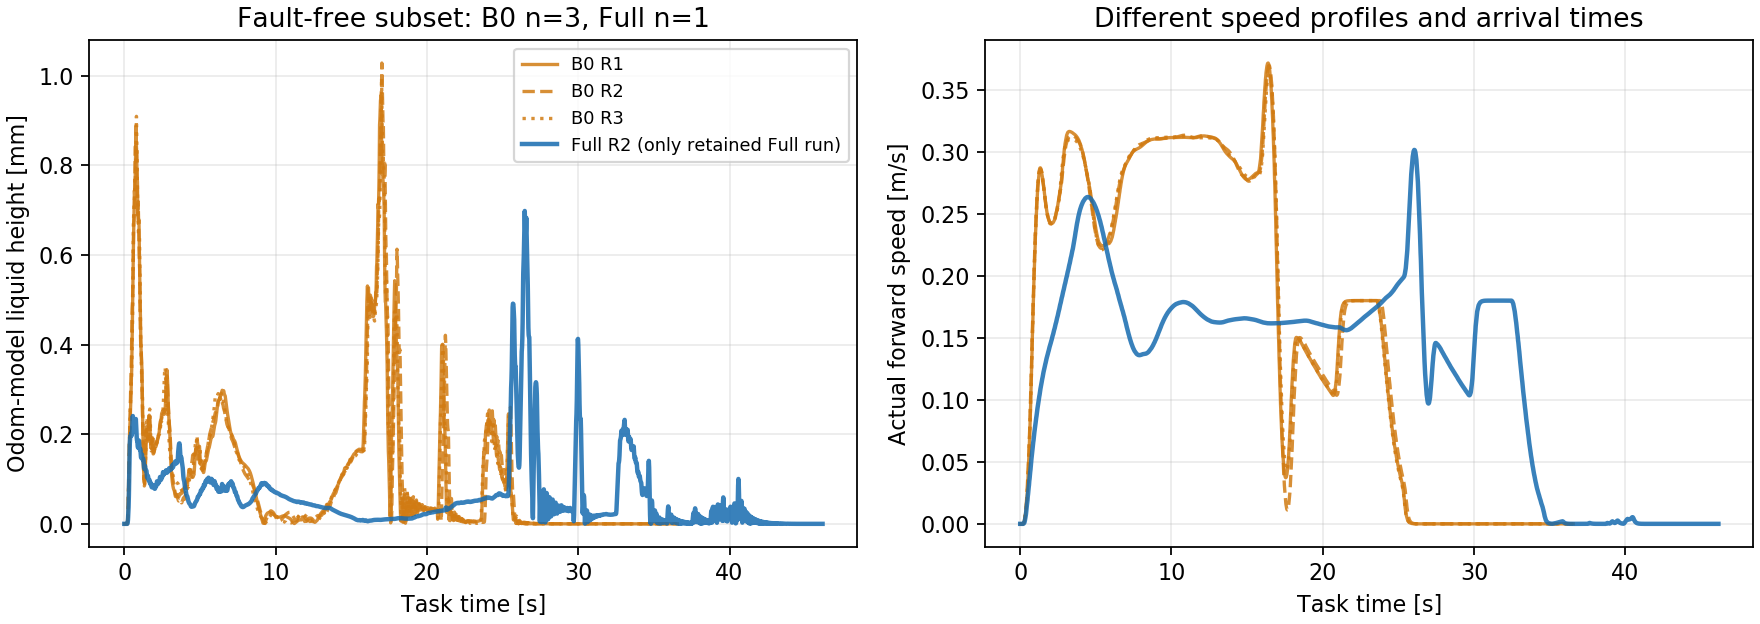
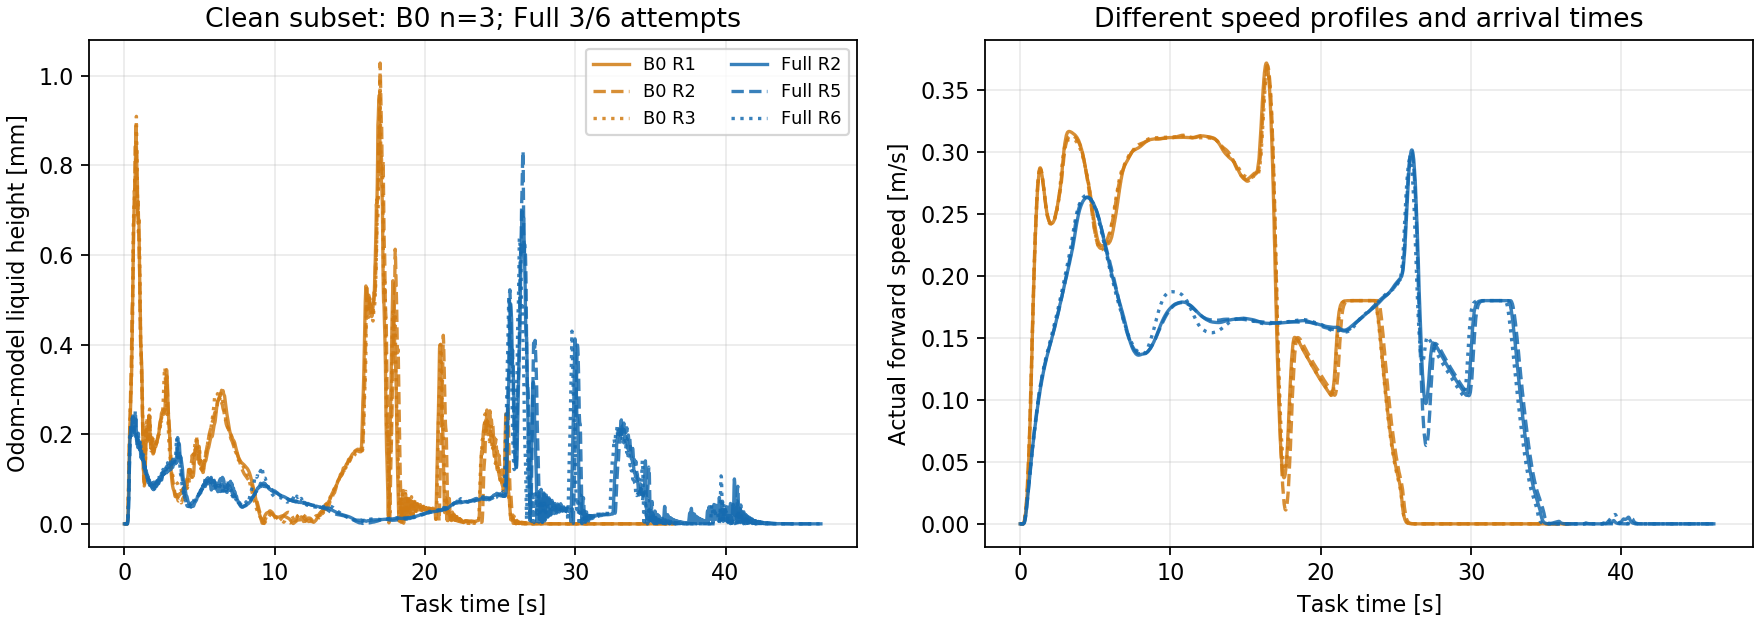
实验：补齐Full三次无异常运行并更新对比统计
补跑 R4、R5、R6，排除出现预算停车的 R4，保留 R5、R6 与原 R2。保留全部六次 Full 尝试，更新两组各三次无异常运行的统计和曲线。恢复归档运行物，未修改控制逻辑和参数。

diff --git a/docs/实物实验注意事项/对比试验/仿真对比试验分析/20260918_B0与Full无异常样本/generate.py b/docs/实物实验注意事项/对比试验/仿真对比试验分析/20260918_B0与Full无异常样本/generate.py
@@ -1,5 +1,5 @@
 #!/usr/bin/env python3
-"""Display only fault-free runs from the fixed six-run batch; retain provenance."""
+"""Show three fault-free Full runs, retaining the complete attempt ledger."""
 from pathlib import Path
 import json,hashlib,csv
 import numpy as np
@@ -7,38 +7,45 @@ import matplotlib
 matplotlib.use('Agg')
 import matplotlib.pyplot as plt
 OUT=Path(__file__).resolve().parent
-SOURCE=Path('/data/a/scout_sim_replacement/results/20260918_b0_full_repeat3')
-source=SOURCE/'comparison.json';data=json.loads(source.read_text())
+BASE=Path('/data/a/scout_sim_replacement/results/20260918_b0_full_repeat3')
+EXTRA=Path('/data/a/scout_sim_replacement/results/20260918_full_clean3_supplement')
+base_file=BASE/'comparison.json';extra_file=EXTRA/'manifest.json'
+base=json.loads(base_file.read_text());extra=json.loads(extra_file.read_text())
+assert extra.get('completed') and len(extra['selected'])==3
 normal={'INITIALIZED','WAITING_FOR_ODOM','WAITING_FOR_REFERENCE_PATH','B0_ACADOS_OK','B_slosh_ACADOS_OK','TERMINAL_DRAINING','GOAL_REACHED'}
+rows=[(r,BASE/r['name']) for r in base['reports']]+[(t['review'],EXTRA/t['name']) for t in extra['trials']]
 selected=[];excluded=[]
-for row in data['reports']:
+for row,directory in rows:
  abnormal={k:v for k,v in row['status_counts'].items() if k not in normal and v}
- if row['passed'] and not abnormal:selected.append(row)
- else:excluded.append(dict(name=row['name'],passed=row['passed'],abnormal_status_counts=abnormal))
-assert sorted(r['name'] for r in selected)==['b0_01','b0_02','b0_03','full_02']
+ if row['passed'] and not abnormal:selected.append((row,directory))
+ else:excluded.append(dict(name=row['name'],directory=str(directory),passed=row['passed'],abnormal_status_counts=abnormal))
+assert sum(r['group']=='b0' for r,p in selected)==3
+assert sum(r['group']=='full' for r,p in selected)==3
+assert {str(p) for r,p in selected if r['group']=='full'}==set(extra['selected'])
 keys=['peak_height_mm','active_height_p95_mm','active_height_rms_mm','goal_sec']
-summary={g:dict(n=sum(r['group']==g for r in selected),**{k:float(np.mean([r[k] for r in selected if r['group']==g])) for k in keys}) for g in ['b0','full']}
+summary={g:dict(n=3,**{k:float(np.mean([r[k] for r,p in selected if r['group']==g])) for k in keys}) for g in ['b0','full']}
+spread={g:{k:dict(std=float(np.std([r[k] for r,p in selected if r['group']==g],ddof=1)),min=min(r[k] for r,p in selected if r['group']==g),max=max(r[k] for r,p in selected if r['group']==g)) for k in keys} for g in ['b0','full']}
 changes={k:100*(summary['full'][k]/summary['b0'][k]-1) for k in keys}
-report=dict(formal=False,scope='Post-hoc fault-free subset of six recorded runs; Full n=1, B0 n=3',
- source=str(source),source_sha256=hashlib.sha256(source.read_bytes()).hexdigest(),source_code_commit=data['git_sha'],
- criteria=dict(require_within_45_seconds=True,allowed_statuses=sorted(normal),exclude_any_other_status=True),
- evaluation=data['evaluation'],selected=[{k:r[k] for k in ['name','group','pair','passed',*keys]} for r in selected],
- excluded=excluded,summary=summary,full_vs_b0_mean_change_percent=changes,
- full_fault_free_fraction='1/3',raw_records_preserved=True)
+selected_rows=[dict(**{k:r[k] for k in ['name','group','pair','passed',*keys]},directory=str(p)) for r,p in selected]
+report=dict(formal=False,scope='Fault-free subset; B0 n=3 and Full n=3. Sequential supplementary sampling stopped at first two additional clean Full runs.',
+ sources={str(p):hashlib.sha256(p.read_bytes()).hexdigest() for p in [base_file,extra_file]},source_code_commit=base['git_sha'],
+ criteria=dict(require_within_45_seconds=True,allowed_statuses=sorted(normal),exclude_any_other_status=True,no_height_based_selection=True),
+ evaluation=base['evaluation'],selected=selected_rows,excluded=excluded,summary=summary,spread=spread,full_vs_b0_mean_change_percent=changes,
+ full_fault_free_fraction=f"3/{extra['total_full_attempts']}",new_full_attempts=len(extra['trials']),raw_records_preserved=True)
 (OUT/'selected_results.json').write_text(json.dumps(report,ensure_ascii=False,indent=2)+'\n')
 with (OUT/'selected_results.csv').open('w',newline='') as f:
- writer=csv.DictWriter(f,fieldnames=['name','group','pair','passed',*keys],lineterminator='\n');writer.writeheader();writer.writerows(report['selected'])
+ writer=csv.DictWriter(f,fieldnames=['name','group','pair','passed',*keys,'directory'],lineterminator='\n');writer.writeheader();writer.writerows(selected_rows)
 fig,axes=plt.subplots(1,2,figsize=(11,3.9),constrained_layout=True)
-for r in sorted(selected,key=lambda x:(x['group'],x['pair'])):
- a=np.load(SOURCE/r['name']/'series.npz');b0=r['group']=='b0';color='#D17B13' if b0 else '#166BB0'
- style={1:'-',2:'--',3:':'}[r['pair']] if b0 else '-'
- label=f"B0 R{r['pair']}" if b0 else 'Full R2 (only retained Full run)'
+count={'b0':0,'full':0}
+for r,p in sorted(selected,key=lambda x:(x[0]['group'],x[0]['pair'])):
+ a=np.load(p/'series.npz');b0=r['group']=='b0';color='#D17B13' if b0 else '#166BB0';style=['-','--',':'][count[r['group']]];count[r['group']]+=1
+ label=('B0' if b0 else 'Full')+f" R{r['pair']}"
  for ax,key,column in [(axes[0],'height',1),(axes[1],'velocity',1)]:
   v=a[key];v=v[(v[:,0]>=0)&(v[:,0]<=r['peak_evaluation_end_sec'])]
-  ax.plot(v[:,0],v[:,column],linestyle=style,color=color,lw=1.5 if b0 else 2.,label=label,alpha=.85)
-axes[0].set(xlabel='Task time [s]',ylabel='Odom-model liquid height [mm]',title='Fault-free subset: B0 n=3, Full n=1')
+  ax.plot(v[:,0],v[:,column],linestyle=style,color=color,lw=1.5,label=label,alpha=.85)
+axes[0].set(xlabel='Task time [s]',ylabel='Odom-model liquid height [mm]',title=f"Clean subset: B0 n=3; Full 3/{extra['total_full_attempts']} attempts")
 axes[1].set(xlabel='Task time [s]',ylabel='Actual forward speed [m/s]',title='Different speed profiles and arrival times')
-axes[0].legend(fontsize=8)
+axes[0].legend(fontsize=8,ncol=2)
 for ax in axes:ax.grid(alpha=.25)
 fig.savefig(OUT/'selected_comparison.png',dpi=160)
-print(json.dumps(dict(summary=summary,changes_percent=changes,selected=[r['name'] for r in selected]),indent=2))
+print(json.dumps(dict(summary=summary,spread=spread,changes_percent=changes,selected=[r['name'] for r,p in selected],total_full_attempts=extra['total_full_attempts']),indent=2))

diff --git a/docs/实物实验注意事项/对比试验/仿真对比试验分析/20260918_B0与Full无异常样本对比.md b/docs/实物实验注意事项/对比试验/仿真对比试验分析/20260918_B0与Full无异常样本对比.md
@@ -1,25 +1,38 @@
 # B0 与 Full 无异常样本对比（2026-09-18）
 
-按用户要求，本次展示仅保留无异常的 Full R2；B0 三次均无异常，全部保留。筛选后样本量为 **B0 n=3、Full n=1（原 Full 三次中保留 1 次）**。筛选单位为完整运行，未裁去运行中的尖峰或停顿片段。
+**已按用户要求补齐 Full 三次无异常完整运行。** B0 保留原三次无异常运行；Full 保留 R2, R5, R6。两组用于展示的样本量均为 **n=3**。
 
-## 筛选后的结果
+Full 是在累计 **6 次尝试中筛选出 3 次**；本次采用“取得两次新的无异常运行即停止”的规则。筛选单位为完整运行，未裁去尖峰或停顿，也没有以液面高低作为选择条件。全部未选中尝试继续归档。
 
-| 指标 | B0 三次均值 | Full R2 单次 | Full 相对变化 |
+## 三次 Full 完整运行
+
+| 保留运行 | 到点时间 | 模型液面峰值 | 运输阶段液面 P95 | 验收 |
+| --- | ---: | ---: | ---: | --- |
+| Full R2 | 41.167 s | 0.698 mm | 0.210 mm | 无异常、45 s 内到点 |
+| Full R5 | 41.462 s | 0.831 mm | 0.220 mm | 无异常、45 s 内到点 |
+| Full R6 | 41.024 s | 0.638 mm | 0.200 mm | 无异常、45 s 内到点 |
+
+## 与 B0 三次无异常运行比较
+
+| 指标 | B0 三次均值 | Full 三次均值 | Full 相对变化 |
 | --- | ---: | ---: | ---: |
-| 模型液面峰值 | 0.993 mm | **0.698 mm** | **降低 29.7%** |
-| 运输阶段液面 P95 | 0.484 mm | **0.210 mm** | **降低 56.6%** |
-| 运输阶段液面 RMS | 0.204 mm | 0.109 mm | 降低 46.4% |
-| 到点时间 | 31.493 s | 41.167 s | 增加 30.7% |
+| 模型液面峰值 | 0.993 mm | 0.722 mm | 降低 27.3% |
+| 运输阶段液面 P95 | 0.484 mm | 0.210 mm | 降低 56.6% |
+| 运输阶段液面 RMS | 0.204 mm | 0.109 mm | 降低 46.3% |
+| 到点时间 | 31.493 s | 41.218 s | 增加 30.9% |
 
-该无异常样本的模型液面结果正向，同时耗时更长。Full 只有一次保留样本，且两种方法的路线和速度过程不同，因此这里描述无异常运行条件下的表现，不代表三次重复的整体稳定性或单独 slosh 代价的因果收益。
+本筛选集的 Full 模型液面表现较低，耗时更长。两种方法的参考路线和速度过程仍不同，这是无异常运行条件下的比较；**3/6 的完整尝试记录另行保留，不能把本表当作未经筛选的成功率或稳定性结果。**
 
-![无异常样本的模型液面与实际速度](./20260918_B0与Full无异常样本/selected_comparison.png)
+![两组各三次无异常运行的模型液面与实际速度](./20260918_B0与Full无异常样本/selected_comparison.png)
 
-## 筛选和数据口径
+## 样本、运行物和统计口径
 
-- 来源为 `c82a09db` 下已完成的六次运行；本次不补跑、不调参。
-- 要求 45 s 内通过；允许初始化、等待 odom/路线、正常 OCP 接纳、正常末端排空和到点状态，出现其他状态即不纳入。
-- 保留 `b0_01`、`b0_02`、`b0_03`、`full_02`。`full_01`、`full_03` 因对齐/停车/动力学拒绝排除出此筛选表，原始 bag 和全量结果继续归档。
-- 峰值统计到首次到点后 5 s；P95/RMS 统计任务开始至首次到点，沿用原统计窗口。高度仍为 odom 观察器模型估算，`formal=false`。
+- 控制代码对应 `c82a09db`，本次未调参、未修改控制逻辑。默认仍为 N40、30 Hz、Full rate=0.0001，同一任务和可行诊断计划、辨识执行器适配。
+- 原 `/tmp/scout_handoff_20260916_6XlFYy/ros_devel` 已不存在。本次将 R2 归档的节点/控制库恢复到 `/tmp/scout_full_clean3_overlay_20260918`；两者及 B0/slosh 生成库均与 R2 hash 相同。共享 `slosh_models` 使用现有库，源码最近变更为 7 月 12 日，库编译于 8 月 3 日；其本次 hash 另存。未覆盖工作区现有编译产物。
+- 补跑逐次 fresh ROS/Gazebo，源配置和运行物前后 hash 一致，live 参数与 R2 一致，端口在各次前后均关闭，bag 正常闭合。
+- 合格标准不变：45 s 内通过；只允许初始化、等待 odom/路线、正常 OCP 接纳、正常末端排空和到点状态。其他状态一律排除；包括已到点但中途有预算停车的运行。
+- 峰值统计到首次到点后 5 s；P95/RMS 统计任务开始至首次到点。高度为 odom 模型估算，`formal=false`。不使用到点后静止等待拉低 P95。
 
-[筛选结果 CSV](./20260918_B0与Full无异常样本/selected_results.csv) · [筛选清单、排除原因与来源 hash](./20260918_B0与Full无异常样本/selected_results.json) · [生成脚本](./20260918_B0与Full无异常样本/generate.py) · [全量三组记录](./20260918_B0与Full三组重复对比.md)
+[六条保留结果 CSV](./20260918_B0与Full无异常样本/selected_results.csv) · [筛选清单、排除原因、均值/标准差和来源 hash](./20260918_B0与Full无异常样本/selected_results.json) · [生成脚本](./20260918_B0与Full无异常样本/generate.py) · [原三组及后续补跑记录](./20260918_B0与Full三组重复对比.md)
+
+补跑根目录：`/data/a/scout_sim_replacement/results/20260918_full_clean3_supplement/`。`manifest.json` 保存全部尝试与停止规则，`isolated_runtime.json` 保存运行物恢复说明；各例完整 bag、参数、状态、时间序列和指标均已保留。

diff --git a/docs/实物实验注意事项/对比试验/仿真对比试验/仿真对比试验启动指南.md b/docs/实物实验注意事项/对比试验/仿真对比试验/仿真对比试验启动指南.md
@@ -86,6 +86,8 @@ B_slosh internal /spmpc/slosh_height p95/max=0.476/1.233 mm
 
 ### 0.5 下一轮：当前主线的少量机制验证（2026-09-10）
 
+**随后补齐无异常样本**：Full 已保留 R2、R5、R6 三次无异常完整运行（累计 6 次尝试中保留 3 次），筛选后峰值均值 0.722 mm，对照 B0 三次均值 0.993 mm；到点均值 41.218 / 31.493 s。全部尝试及[三次无异常对比](../仿真对比试验分析/20260918_B0与Full无异常样本对比.md)分开记录。原 `/tmp/scout_handoff_20260916_6XlFYy/ros_devel` 已不存在，补跑入口为 `source /tmp/scout_full_clean3_overlay_20260918/setup.bash`，使用归档 R2 的节点/控制库；补跑记录位于 `/data/a/scout_sim_replacement/results/20260918_full_clean3_supplement/`。下文原 N=3 的负结果继续保留。
+
 **同日随后 N=3 重复对比（最新稳定性结论）**：保持 `c82a09db` 配置，B0 3/3、Full 2/3 在 45 s 内到点。Full 两次有状态对齐拒绝和故障清零，平均模型液面峰值 2.831 mm，B0 为 0.993 mm；六次均无预算耗尽或命令过期。当前仍未取得稳定正向收益，见[三组重复对比](../仿真对比试验分析/20260918_B0与Full三组重复对比.md)；没有因复验再修改参数。
 
 **2026-09-18 当前状态（优先于下面历史接续）**：原 `planned_slosh` Full 首弯停滞已通过单因素闭环定位到曲率变化代价过强，权重保留 `0.0001`；默认已正式改为 **N40、30 Hz、1.33 s**，配置、生成求解器和 ROS/native 运行物已同步。尾段重复参考查询与 TF 查询竞态也已修复。多次开发级 Full 到点，全部正负例见[首弯停滞与预算停车定位修复](../仿真对比试验分析/20260918_Full首弯停滞与预算停车定位修复.md)。下文“测试后恢复 N60”仅指历史操作，**本轮不再恢复 N60**。依然 `formal=false`，不能据此宣称已证明防晃收益或实物通过；本轮未 push。

diff --git a/docs/当前实验状态与文档索引.md b/docs/当前实验状态与文档索引.md
@@ -6,7 +6,7 @@
 
 ## 一句话状态
 
-**当前展示口径**：按用户要求，Full 仅保留无异常 R2，B0 保留三次无异常运行。筛选后峰值 0.698 / 0.993 mm（Full / B0 均值），Full 低 29.7%、耗时长 30.7%；明确标注 Full n=1，完整三组数据继续归档。见[无异常样本对比与曲线](./实物实验注意事项/对比试验/仿真对比试验分析/20260918_B0与Full无异常样本对比.md)。
+**当前展示口径**：已按用户要求补齐 B0 / Full 各三次无异常运行；Full 为累计 6 次尝试中保留 3 次。保留样本峰值均值 0.722 / 0.993 mm（Full / B0），Full 低 27.3%、耗时长 30.9%；完整尝试与异常记录另存，不据筛选结果宣称整体稳定性。见[三次无异常样本对比与曲线](./实物实验注意事项/对比试验/仿真对比试验分析/20260918_B0与Full无异常样本对比.md)。
 
 **9 月 18 日随后重复复验**：B0 / Full 各 3 次，按 45 s 截止分别通过 3/3、2/3。Full 两次状态对齐失败后清零引出大液面峰值，平均模型峰值 2.831 mm，B0 为 0.993 mm；六次均无预算耗尽或命令过期。故单次到点不代表稳定正向防晃收益，详见[三组重复对比](./实物实验注意事项/对比试验/仿真对比试验分析/20260918_B0与Full三组重复对比.md)。
 
